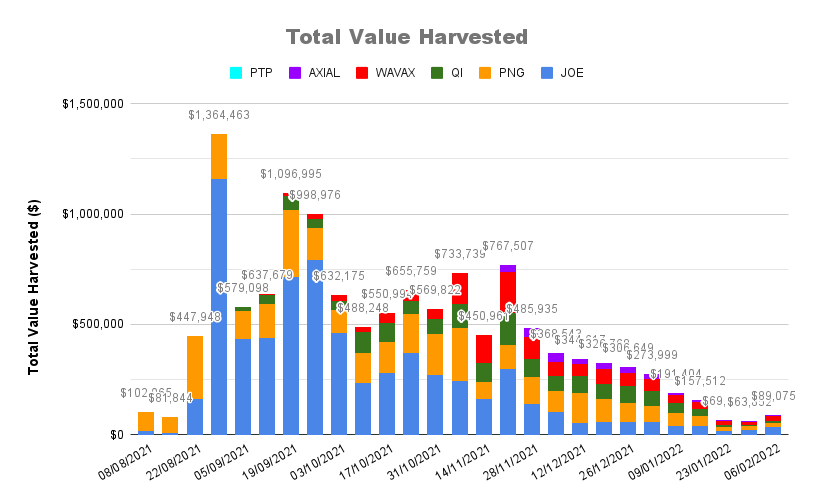
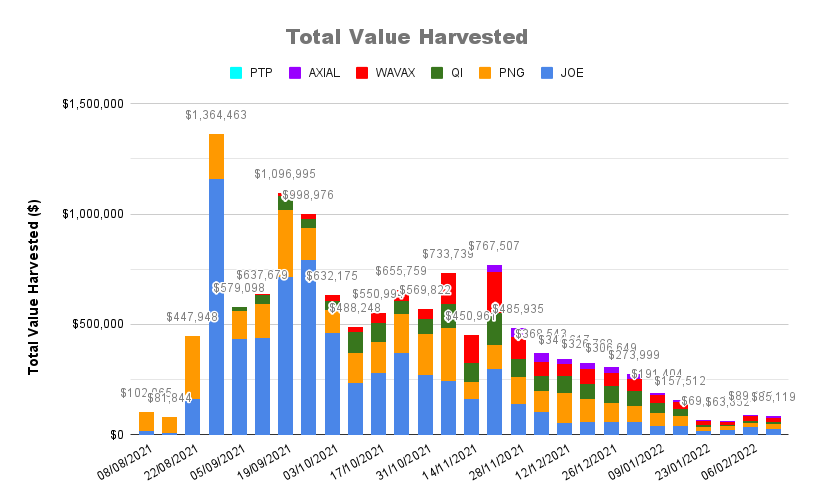
GitBook: [#580] Updating Harvest Stats

Changed region(s): [[0.1843, 0.2684, 0.9828, 0.9543], [0.215, 0.2087, 0.3071, 0.2386], [0.1229, 0.9245, 0.1536, 0.9543]]

diff --git a/resources/harvest-stats.md b/resources/harvest-stats.md
@@ -58,6 +58,6 @@ Weekly snapshots are taken every Sunday, and this page is updated every Monday.
 {% endtab %}
 
 {% tab title="PTP" %}
-_Coming Soon!_
+![](<../.gitbook/assets/PTP Harvested.png>)
 {% endtab %}
 {% endtabs %}
